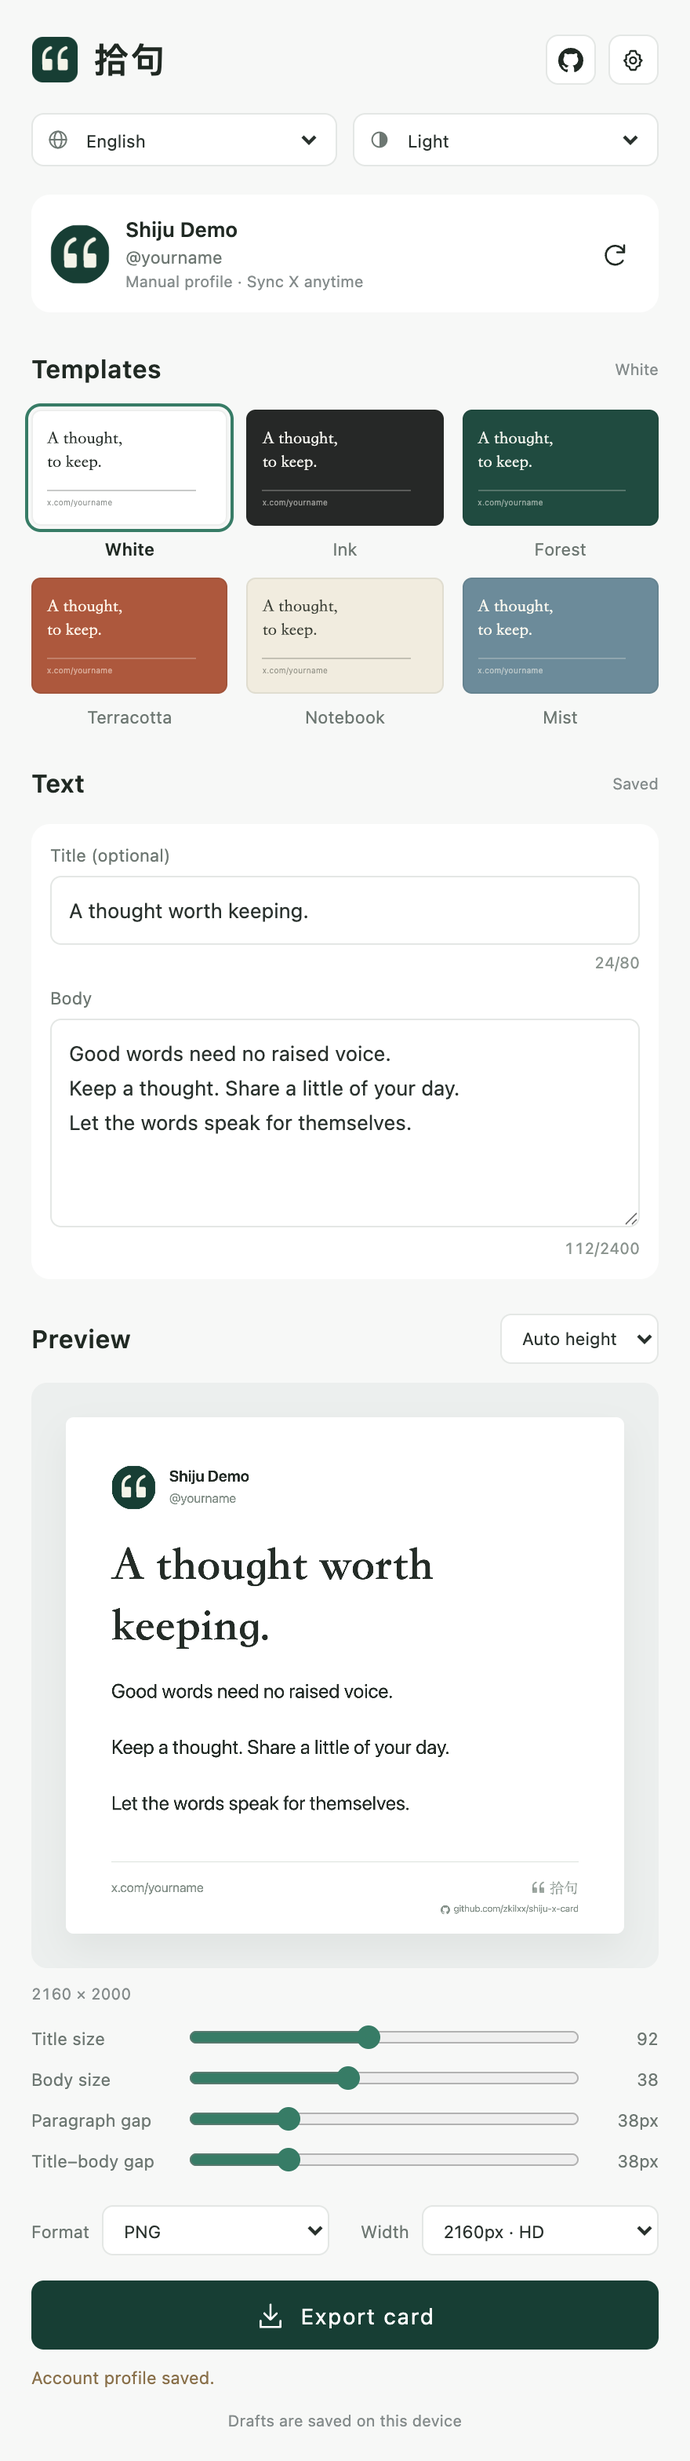
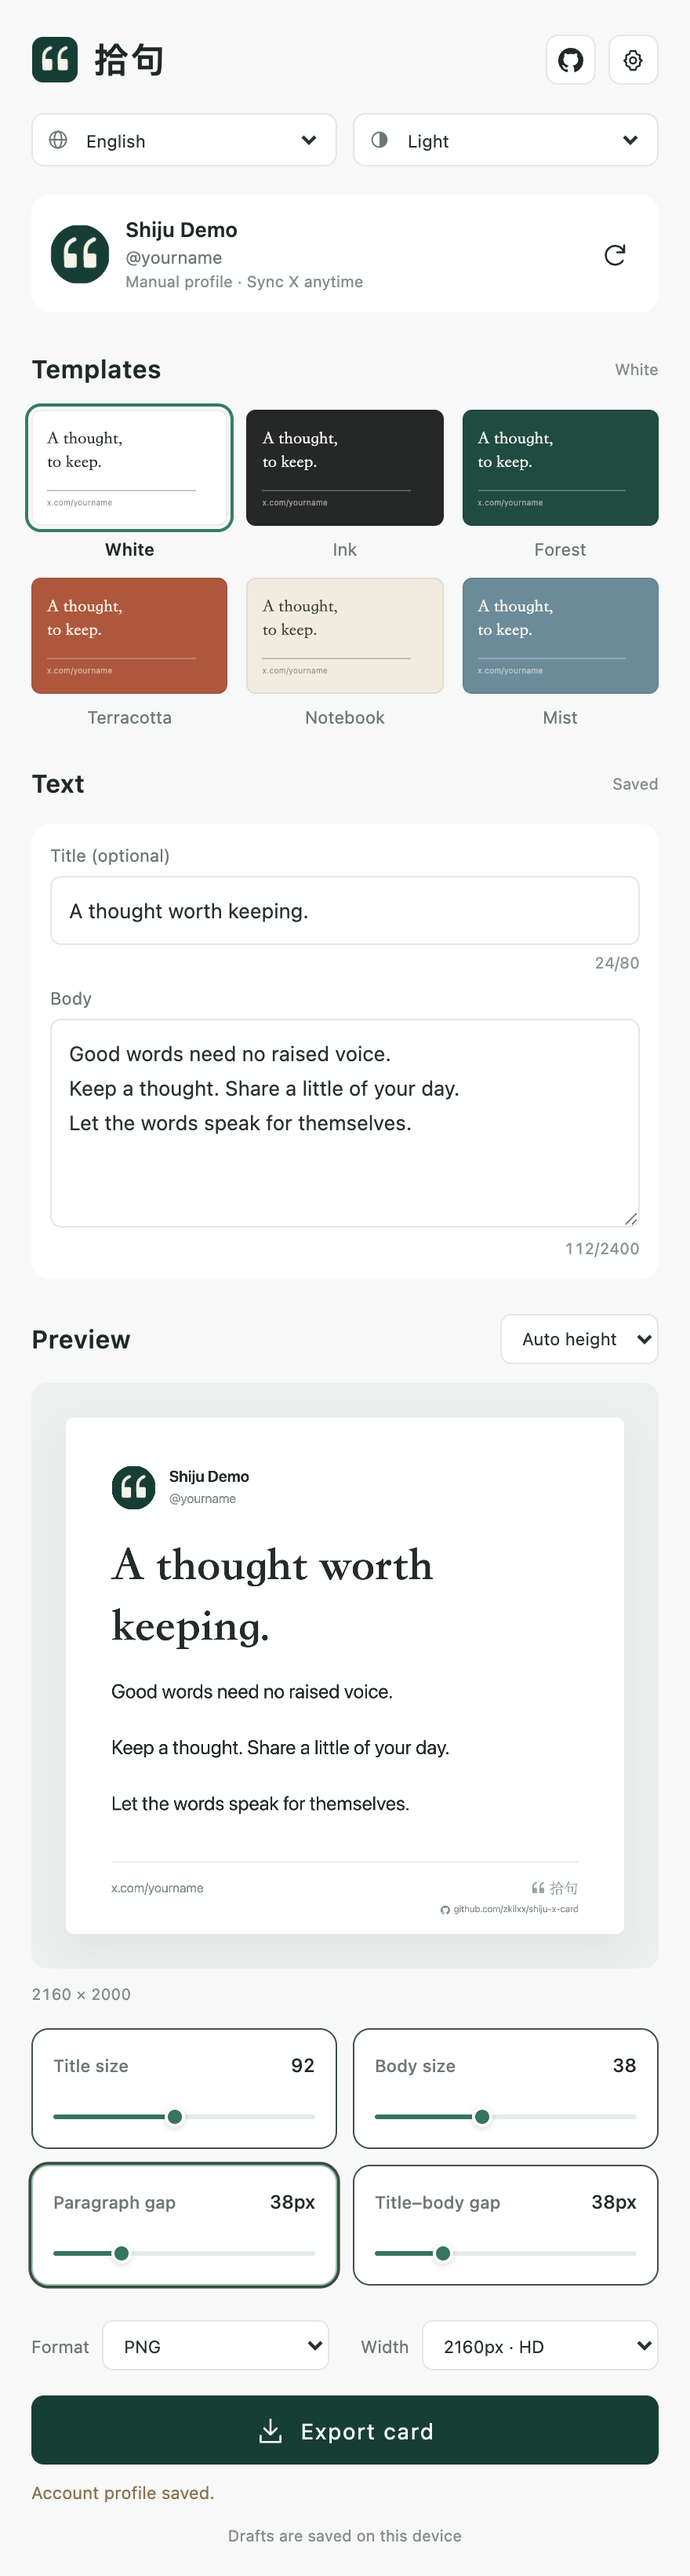
Refine typography controls with two-column panels and custom sliders

diff --git a/extension/styles.css b/extension/styles.css
@@ -340,41 +340,107 @@ canvas#preview {
   gap:8px;
   font-variant-numeric:tabular-nums
 }
-.size-control {
-  display:flex;
-  align-items:center;
-  gap:7px;
-  margin:0;
-  font-size:10px
-}
-.size-control input {
-  width:65px;
-  accent-color:var(--accent);
-  height:14px
-}
-.size-control output {
-  min-width:16px
-}
 .typography-controls {
+  --range-fill:#37745e;
+  --range-track:#e5ebe7;
   display:grid;
-  gap:12px;
-  margin-top:15px;
+  grid-template-columns:repeat(2,minmax(0,1fr));
+  gap:10px;
+  margin-top:16px;
+}
+[data-color-mode="dark"] .typography-controls {
+  --range-fill:#91bda7;
+  --range-track:#35473d;
 }
 .typography-controls .size-control {
   display:grid;
-  grid-template-columns:66px minmax(0,1fr) 40px;
-  gap:10px;
-  font-size:11px;
-}
-.typography-controls input {
-  width:100%;
+  grid-template-columns:minmax(0,1fr) auto;
+  grid-template-rows:minmax(22px,auto) 24px;
+  align-items:center;
+  column-gap:8px;
+  row-gap:9px;
   min-width:0;
   margin:0;
+  padding:12px 13px 8px;
+  border:1px solid var(--line);
+  border-radius:11px;
+  background:var(--surface);
+  font-size:11px;
+  line-height:1.4;
+  transition:border-color .15s,box-shadow .15s;
+}
+.typography-controls .size-control:focus-within {
+  border-color:var(--range-fill);
+  box-shadow:0 0 0 2px var(--hover);
+}
+.typography-controls .size-control > span {
+  grid-column:1;
+  grid-row:1;
+  min-width:0;
+  font-weight:500;
 }
 .typography-controls output {
+  grid-column:2;
+  grid-row:1;
   min-width:25px;
+  color:var(--text);
+  font-size:12px;
+  font-weight:500;
   text-align:right;
   font-variant-numeric:tabular-nums;
+  white-space:nowrap;
+}
+.typography-controls input[type="range"] {
+  -webkit-appearance:none;
+  appearance:none;
+  grid-column:1 / -1;
+  grid-row:2;
+  width:100%;
+  min-width:0;
+  height:24px;
+  margin:0;
+  padding:0;
+  background:transparent;
+  cursor:pointer;
+}
+.typography-controls input::-webkit-slider-runnable-track {
+  height:3px;
+  border:0;
+  border-radius:99px;
+  background:linear-gradient(to right,var(--range-fill) var(--range-progress,0%),var(--range-track) var(--range-progress,0%));
+}
+.typography-controls input::-webkit-slider-thumb {
+  -webkit-appearance:none;
+  width:13px;
+  height:13px;
+  margin-top:-5px;
+  border:2px solid var(--surface);
+  border-radius:50%;
+  background:var(--range-fill);
+  box-shadow:0 1px 4px #10251c30;
+  transition:box-shadow .15s;
+}
+.typography-controls input:hover::-webkit-slider-thumb {
+  box-shadow:0 0 0 4px var(--hover),0 1px 4px #10251c30;
+}
+.typography-controls input::-moz-range-track {
+  height:3px;
+  border:0;
+  border-radius:99px;
+  background:var(--range-track);
+}
+.typography-controls input::-moz-range-progress {
+  height:3px;
+  border-radius:99px;
+  background:var(--range-fill);
+}
+.typography-controls input::-moz-range-thumb {
+  width:9px;
+  height:9px;
+  border:2px solid var(--surface);
+  border-radius:50%;
+  background:var(--range-fill);
+  box-shadow:0 1px 4px #10251c30;
 }
 .tweet-source {
   display:flex;
@@ -530,8 +596,8 @@ dialog .notice {
 .sr-only {position:absolute;width:1px;height:1px;padding:0;margin:-1px;overflow:hidden;clip-path:inset(50%);white-space:nowrap;border:0;}
 label > [data-i18n] {color:inherit;}
 .avatar .x-mark {width:20px;height:20px;fill:currentColor;stroke:none;color:var(--text);}
-html[lang="en"] .typography-controls .size-control {grid-template-columns:90px minmax(0,1fr) 40px;}
 html[lang="en"] .swatch-title {font-size:11px;letter-spacing:0;}
 @media(max-width:340px) {
+  .typography-controls .size-control {padding:11px 10px 7px;column-gap:6px;}
   html[lang="en"] .export-options {gap:10px;}
 }

diff --git a/extension/panel.js b/extension/panel.js
@@ -55,6 +55,11 @@ function queueSave() {
   status('saveStatus','正在保存…');clearTimeout(saveTimer);
   saveTimer=setTimeout(flushSave,200);
 }
+function updateRangeFill(input) {
+  const min=Number(input.min),max=Number(input.max);
+  const progress=max>min?Math.max(0,Math.min(100,(Number(input.value)-min)/(max-min)*100)):0;
+  input.style.setProperty('--range-progress',`${progress}%`);
+}
 function redraw() {
   try {
     const dimensions=renderCard($('preview'),state,cardAvatar(),Number(state.resolution));
@@ -72,6 +77,7 @@ function redraw() {
   $('titleSizeLabel').textContent=state.titleSize;
   $('paragraphSpacingLabel').textContent=`${state.paragraphSpacing}px`;
   $('titleBodyGapLabel').textContent=`${state.titleBodyGap}px`;
+  for(const id of ['titleSize','fontSize','paragraphSpacing','titleBodyGap'])updateRangeFill($(id));
 }
 function renderTemplates() {
   for(const template of templates) {
@@ -178,6 +184,7 @@ async function init() {
   for(const id of ['title','body','ratio','titleSize','fontSize','paragraphSpacing','titleBodyGap','format','resolution']) {
     $(id).value=state[id];$(id).addEventListener(['title','body','titleSize','fontSize','paragraphSpacing','titleBodyGap'].includes(id)?'input':'change',()=>{
       state[id]=['titleSize','fontSize','paragraphSpacing','titleBodyGap','resolution'].includes(id)?Number($(id).value):$(id).value;
+      if($(id).type==='range')updateRangeFill($(id));
       clearTimeout(renderTimer);renderTimer=setTimeout(redraw,60);queueSave();
     });
   }

diff --git a/README.en.md b/README.en.md
@@ -5,7 +5,7 @@
   <h1>Shiju · X Text Cards</h1>
   <p>Turn your thoughts and favorite X posts into beautiful cards, right in Chrome's side panel.</p>
   <p>
-    <img src="https://img.shields.io/badge/version-1.4.1-173e34" alt="Version 1.4.1">
+    <img src="https://img.shields.io/badge/version-1.4.2-173e34" alt="Version 1.4.2">
     <img src="https://img.shields.io/badge/Chrome-116%2B-4285F4?logo=googlechrome&logoColor=white" alt="Chrome 116+">
     <img src="https://img.shields.io/badge/Manifest-V3-6d7772" alt="Manifest V3">
     <img src="https://img.shields.io/badge/PNG-3240px-173e34" alt="PNG exports up to 3240px">
@@ -44,7 +44,7 @@ Select **English** in the language menu at the top. Language changes affect cont
 
 Requires desktop Chrome 116 or later. The extension is currently installed as an unpacked extension; it is not listed in the Chrome Web Store.
 
-1. Download `shiju-x-card-1.4.1.zip` from [Releases](https://github.com/zkilxx/shiju-x-card/releases/latest) and extract it.
+1. Download `shiju-x-card-1.4.2.zip` from [Releases](https://github.com/zkilxx/shiju-x-card/releases/latest) and extract it.
 2. Open `chrome://extensions` and enable **Developer mode** in the top-right corner.
 3. Click **Load unpacked** and select the extracted **extension** folder, which contains `manifest.json`.
 4. Pin Shiju from Chrome's extensions menu, then click its icon to open the side panel.
@@ -80,6 +80,8 @@ To update, replace the files in the installed folder, click **Reload** for Shiju
 **Paragraph gap** adds space between paragraphs: a single Enter starts a new paragraph; automatically wrapped lines keep their existing line spacing. Extra blank lines retain one line of height. Paragraph gap and title–body gap each range from 0 to 160px at a 1080px card width. Larger exports scale them proportionally; fixed-ratio cards scale spacing along with text when fitting content.
 
 Use the default **2160px PNG** for a sharp, lossless image, or choose 3240px for a larger export. JPG uses maximum-quality encoding. Addresses printed on a card are image text and cannot be clicked. The GitHub button in the extension header opens the repository in a new tab.
+
+![Typography controls with a two-column layout and custom range sliders](docs/images/typography-en.png)
 
 ### Save a post
 

diff --git a/README.md b/README.md
@@ -5,7 +5,7 @@
   <h1>拾句 · X 文字卡片</h1>
   <p>在 Chrome 侧边栏，把想法和喜欢的推文做成一张好看的卡片。</p>
   <p>
-    <img src="https://img.shields.io/badge/version-1.4.1-173e34" alt="Version 1.4.1">
+    <img src="https://img.shields.io/badge/version-1.4.2-173e34" alt="Version 1.4.2">
     <img src="https://img.shields.io/badge/Chrome-116%2B-4285F4?logo=googlechrome&logoColor=white" alt="Chrome 116+">
     <img src="https://img.shields.io/badge/Manifest-V3-6d7772" alt="Manifest V3">
     <img src="https://img.shields.io/badge/PNG-3240px-173e34" alt="PNG export up to 3240px">
@@ -49,7 +49,7 @@
 
 目前通过 Chrome 的「加载已解压的扩展程序」安装，尚未上架 Chrome 应用商店。
 
-1. 前往 [Releases](https://github.com/zkilxx/shiju-x-card/releases/latest)，下载 `shiju-x-card-1.4.1.zip` 并解压。
+1. 前往 [Releases](https://github.com/zkilxx/shiju-x-card/releases/latest)，下载 `shiju-x-card-1.4.2.zip` 并解压。
 2. 在 Chrome 地址栏输入 `chrome://extensions`，打开右上角的「开发者模式」。
 3. 点击「加载已解压的扩展程序」，选择解压后的 **extension** 文件夹，里面应有 `manifest.json`。
 4. 在 Chrome 工具栏的扩展菜单中固定「拾句」，点击图标打开侧边栏。
@@ -84,6 +84,8 @@ cd shiju-x-card
 **段间距**是段落之间的额外留白：单次回车就分段，自动折行的行距保持不变；手动多留的空行仍保留一行高度。段间距和标题到正文间距均可设为 0–160px，按 1080px 卡片宽度计算。导出更大图片时会同比放大；固定比例需要缩小字号时，间距也同步缩放。
 
 推荐使用默认的 **2160px PNG**。需要更大尺寸可选 3240px；JPG 使用最高质量编码。图片中的主页或推文地址是可读文字，不是可点击链接。
+
+![双列排版面板：独立字号与间距、细轨滑杆和清晰数值](docs/images/typography-dark.png)
 
 ### 收藏一条推文
 
